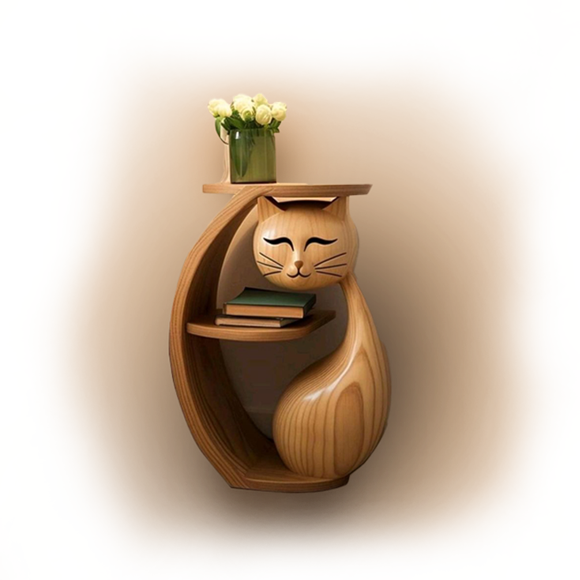
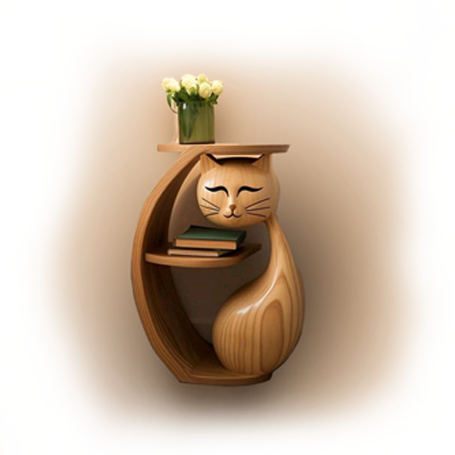
Add new collections component

diff --git a/frontend/src/Components/Assests/newcollections.js b/frontend/src/Components/Assests/newcollections.js
@@ -1,9 +1,37 @@
 // In '../Assets/new_collections.js'
-import p1_image from './product_1.png';
+import p1_image from './heroImage.png';
 
 export const new_collections = [
     {
         id: 1,
+        name: "name",
+        image: p1_image,
+        new_price: 50.00,
+        old_price: 80.59,
+    },
+    {
+        id: 2,
+        name: "name",
+        image: p1_image,
+        new_price: 50.00,
+        old_price: 80.59,
+    },
+    {
+        id: 3,
+        name: "name",
+        image: p1_image,
+        new_price: 50.00,
+        old_price: 80.59,
+    },
+    {
+        id: 4,
+        name: "name",
+        image: p1_image,
+        new_price: 50.00,
+        old_price: 80.59,
+    },
+    {
+        id: 4,
         name: "name",
         image: p1_image,
         new_price: 50.00,

diff --git a/frontend/src/Components/NewCollections/NewCollections.css b/frontend/src/Components/NewCollections/NewCollections.css
@@ -18,7 +18,9 @@
 }
 .collections{
     display: grid;
+    max-width: 1200px;
     grid-template-columns: 1fr 1fr 1fr 1fr;
     margin-top: 50px;
     gap: 30px;
+    width: 100%;
 }

diff --git a/frontend/src/Components/Item/Item.css b/frontend/src/Components/Item/Item.css
@@ -1,5 +1,10 @@
 .item{
-    width: 350px;
+    width: 100%;
+}
+.item img {
+    width: 100%;
+    height: auto;
+    max-width: 100%;
 }
 .item p{
     margin: 6px 0px;
